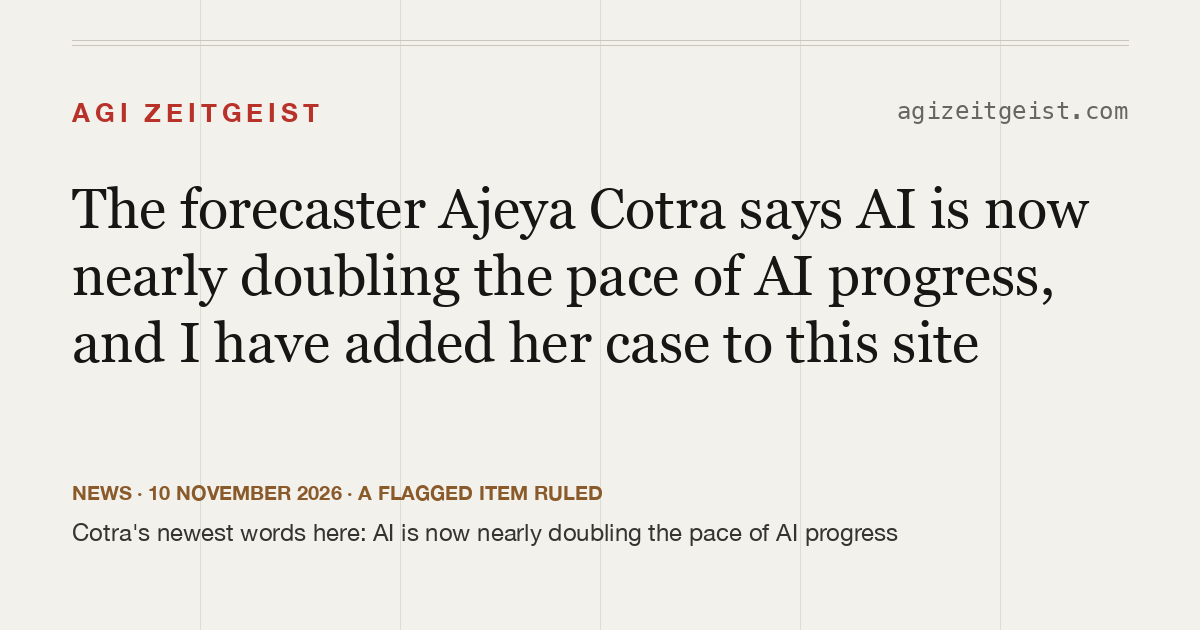
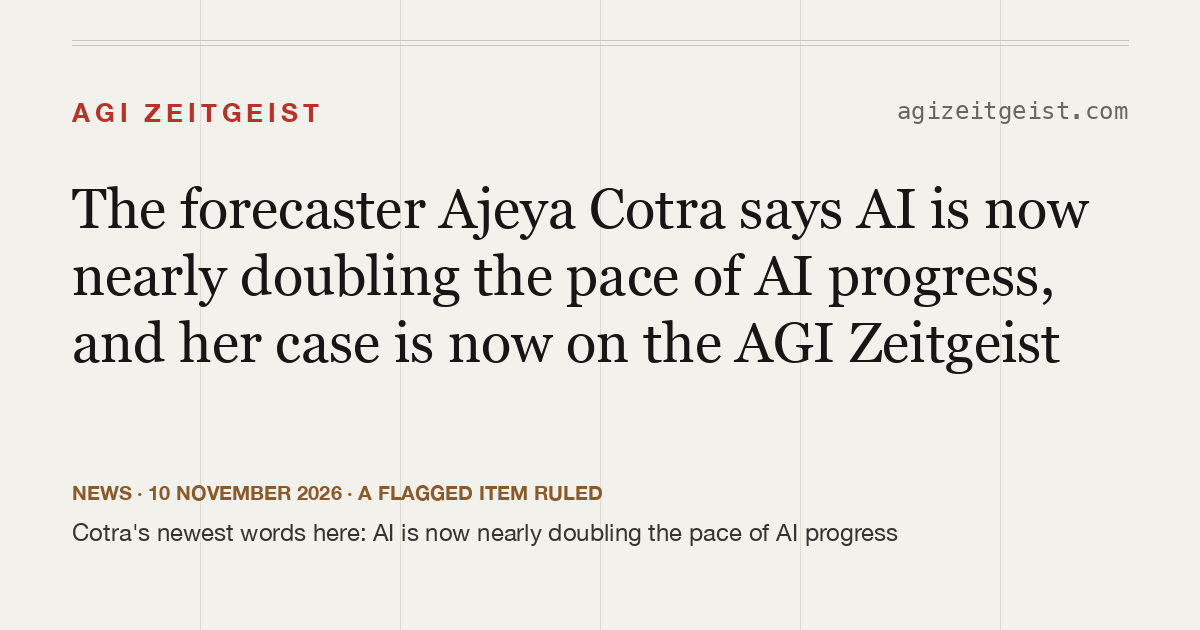
2026-11-09: John's edits to the Cotra draft: the title names the AGI Zeitgeist, and one sentence says whose ideas; card redrawn

Changed region(s): [[0.1542, 0.5127, 0.8942, 0.6032]]

diff --git a/docs/news/2026-11-10-cotra-ai-nearly-doubling-ai-progress.md b/docs/news/2026-11-10-cotra-ai-nearly-doubling-ai-progress.md
@@ -1,5 +1,5 @@
 ---
-title: The forecaster Ajeya Cotra says AI is now nearly doubling the pace of AI progress, and I have added her case to this site
+title: The forecaster Ajeya Cotra says AI is now nearly doubling the pace of AI progress, and her case is now on the AGI Zeitgeist
 date: 2026-11-10
 status: draft
 kind: flagged-item-ruled
@@ -26,7 +26,7 @@ On November 5th, 2026, a research group called [METR](https://metr.org/), which 
 
 [Ajeya Cotra](https://www.planned-obsolescence.org/about) is a forecaster who writes about how soon powerful AI could arrive, and she works at METR, although she did not work on this project. The next day she wrote that the report is a much bigger deal than it sounds ([her post](https://www.planned-obsolescence.org/p/ai-is-dramatically-accelerating-ai)). By her reading, Anthropic's AI is improving about 1.8 times as fast as it would if the company were not using AI in its research, and probably faster since.
 
-Their ideas are only one half of what makes AI better, and the other half is the computing power to test those ideas, which did not speed up. So for the whole to go twice as fast, the researchers' side has to go a good deal more than twice as fast. Each new idea is also harder to find than the last, which pushes the number up further. Her rough answer is that each researcher would need to be getting something like ten times as much done as before. She calls that "very uncertain", and it rests on simple assumptions she chose to keep the arithmetic easy. Informal reports from Anthropic staff, she notes, put it at about twelve times.
+The researchers' ideas are only one half of what makes AI better, and the other half is the computing power to test those ideas, which did not speed up. So for the whole to go twice as fast, the researchers' side has to go a good deal more than twice as fast. Each new idea is also harder to find than the last, which pushes the number up further. Her rough answer is that each researcher would need to be getting something like ten times as much done as before. She calls that "very uncertain", and it rests on simple assumptions she chose to keep the arithmetic easy. Informal reports from Anthropic staff, she notes, put it at about twelve times.
 
 ## Where she thinks it leads
 
